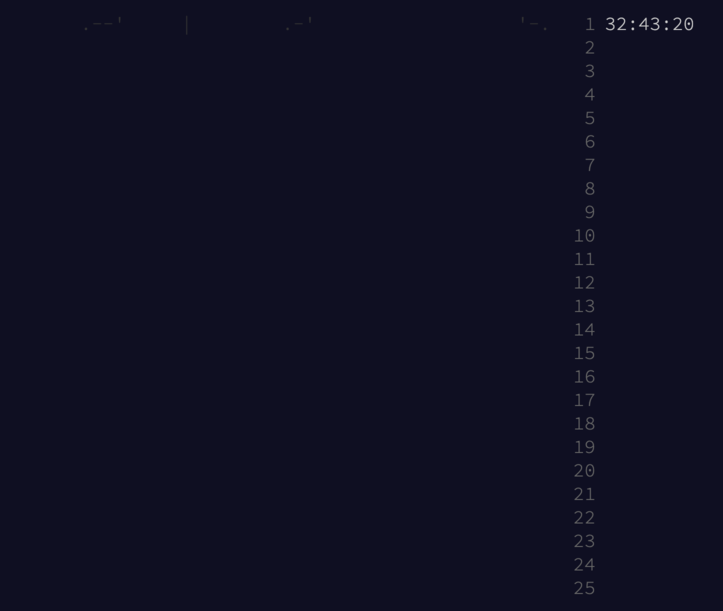
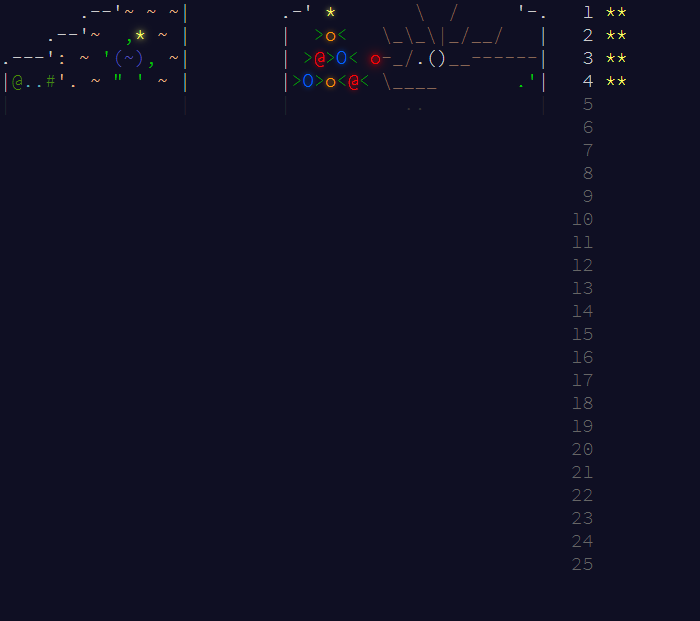
Update the preview image

diff --git a/2024/main_page/aoc/index_00.html b/2024/main_page/aoc/index_00.html
@@ -10,7 +10,7 @@
 <link rel="shortcut icon" href="favicon.png"/>
 </head><body>
 <main>
-<p>The first puzzles will unlock on December 1st at midnight EST (UTC-5).  See you then!</p>
+<!-- <p>The first puzzles will unlock on December 1st at midnight EST (UTC-5).  See you then!</p> -->
 <pre class="calendar"><span aria-hidden="true" class="calendar-day1">       .--'     |        .-'                  '-.  <span class="calendar-day"> 1</span><span id="calendar-countdown"></span><script>
 (function(){
 var countdown = document.getElementById("calendar-countdown");
@@ -85,4 +85,9 @@ function update_countdown() {
 <span aria-hidden="true" class="calendar-day24">                                                   <span class="calendar-day">24</span></span>
 <span aria-hidden="true" class="calendar-day25">                                                   <span class="calendar-day">25</span></span>
 </pre>
-</main></body></html>
+</main>
+<script>
+  var countdown = document.getElementById("calendar-countdown");
+  countdown.textContent = window.location.hash.substr(1);
+</script>
+</body></html>

diff --git a/2024/README.md b/2024/README.md
@@ -1,4 +1,4 @@
-<img align="right" width="362" height="306" src="https://raw.githubusercontent.com/seligman/aoc/master/2024/Puzzles/main_page_small.png">
+<img align="right" width="350" height="310" src="https://raw.githubusercontent.com/seligman/aoc/master/2024/Puzzles/main_page_small.png">
 
 These are my solutions to the [Advent of Code for 2024](https://adventofcode.com/2024).
 
